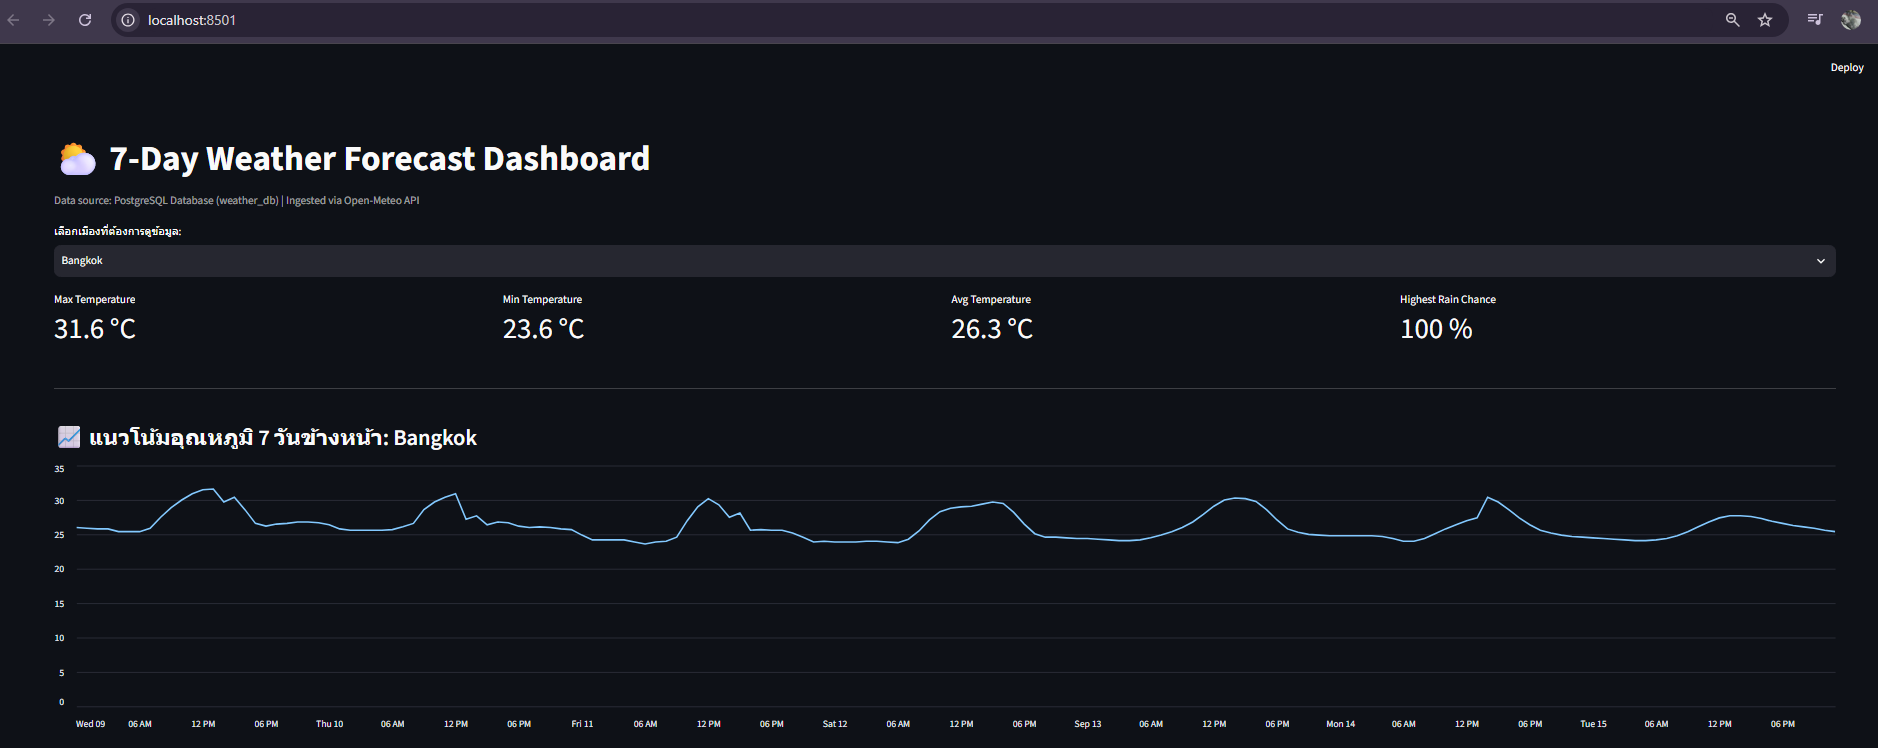
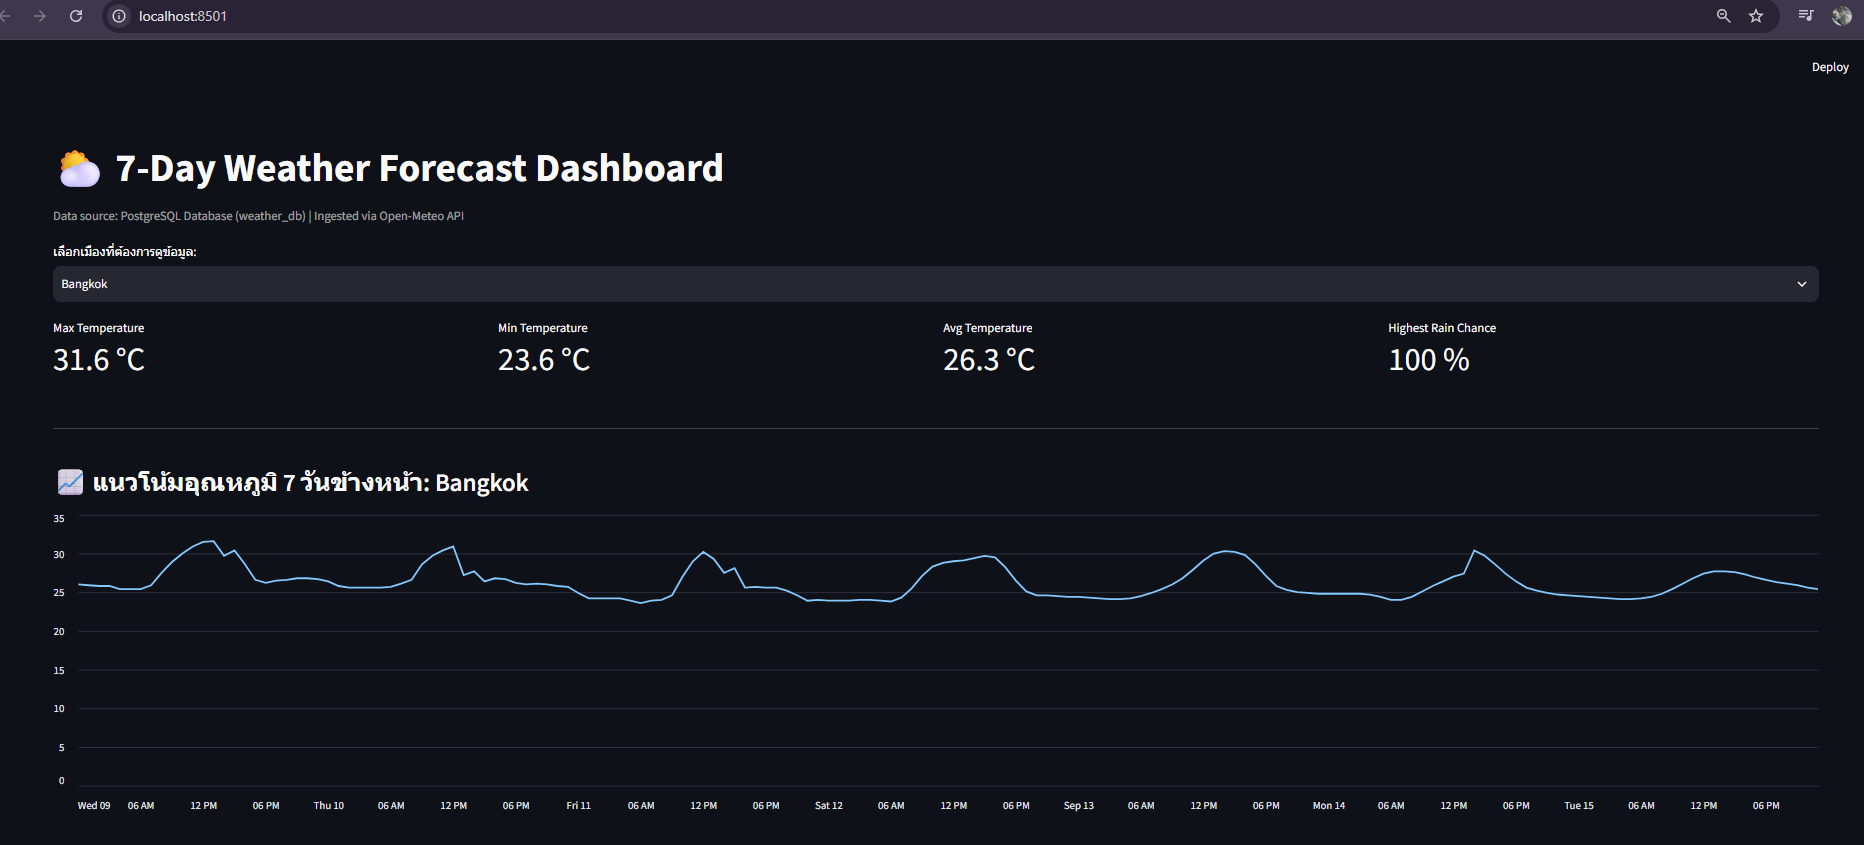
style: update dashboard screenshots with corrected timezone display

diff --git a/app.py b/app.py
@@ -31,7 +31,7 @@ def load_forecast_data():
     """
     df = pd.read_sql(query, conn)
     conn.close()
-    df["forecast_time"] = pd.to_datetime(df["forecast_time"])
+    df["forecast_time"] = pd.to_datetime(df["forecast_time"]).dt.tz_convert("Asia/Bangkok")
     return df
 
 try:
@@ -72,4 +72,3 @@ try:
 
 except Exception as e:
     st.error(f"ไม่สามารถเชื่อมต่อ Database ได้: {e}")
-    

diff --git a/README.md b/README.md
@@ -56,6 +56,7 @@ If this pipeline runs hourly in production, the following architectural upgrades
 2. **Orchestration:** Transition from standalone Python scripts to an orchestrator like **Apache Airflow** or **Prefect** for DAG scheduling, retry policies, and alerting.
 3. **Object Storage Data Lake:** Offload raw JSON files to cloud object storage (AWS S3 / GCS) with lifecycle policies to keep database storage costs minimal.
 4. **Connection Pooling:** Use **PgBouncer** to manage concurrent client connections between ingestion workers and dashboard readers.
+5. **Data Retention Policy:** Implement a daily cleanup routine to remove stale historical forecasts (e.g., `DELETE FROM fact_weather_forecast WHERE forecast_time < CURRENT_DATE - INTERVAL '1 day';`) to prevent indefinite table growth and maintain query performance.
 
 ---
 
